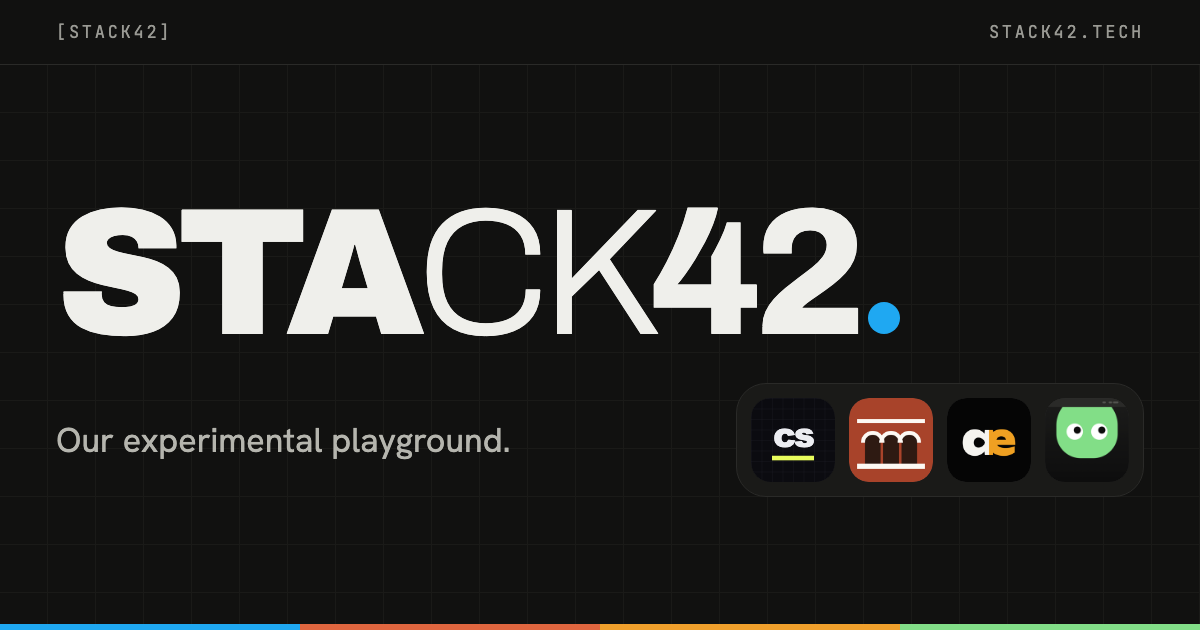
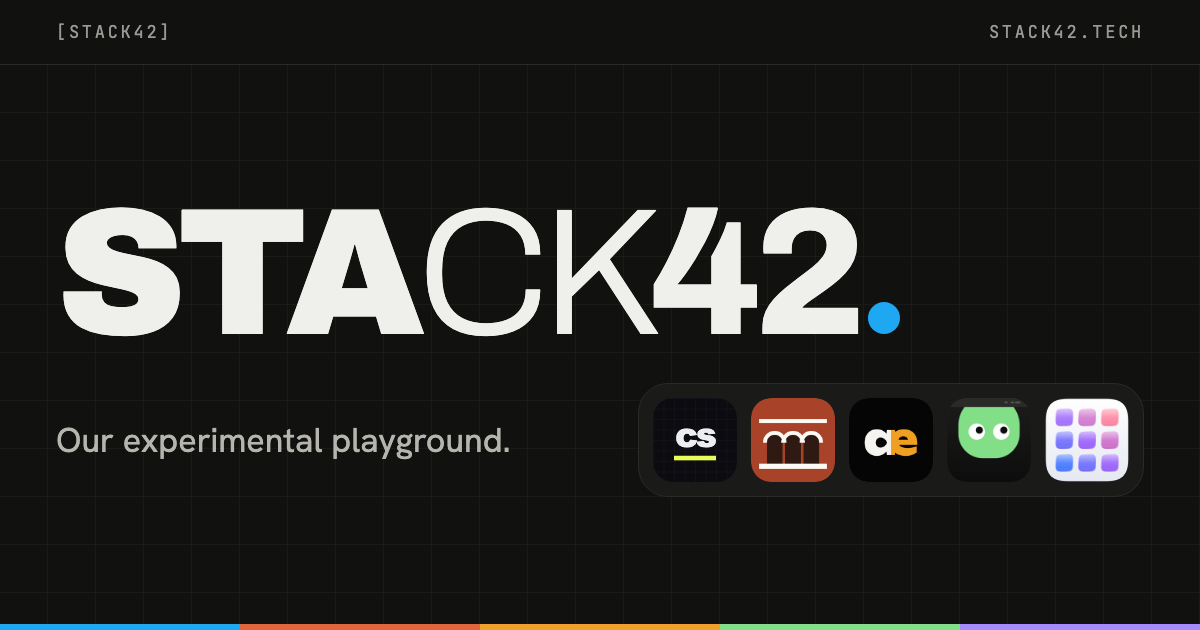
Add relaunch to the lineup
Adds relaunch (paged app grid launcher for macOS) with icon and
screenshot, moves the lineup to a 3-column grid with a 'next up' filler
card, and refreshes the OG image to include its icon.

diff --git a/src/routes/index.tsx b/src/routes/index.tsx
@@ -101,7 +101,28 @@ const products: Product[] = [
     iconScale: 1.25,
     screenshot: "/apps/peeko/screenshot.jpg",
   },
+  {
+    name: "relaunch",
+    head: "re",
+    tail: "launch",
+    category: "MAC LAUNCHER",
+    accent: "#6a3cf0",
+    accentDark: "#a68bff",
+    tags: ["MACOS", "OPEN SOURCE"],
+    description:
+      "The paged app grid, back on your Mac. A free, open-source launcher that restores your old Launchpad layout, folders and all.",
+    link: "https://relaunch.stack42.tech/",
+    link_label: "relaunch.stack42.tech",
+    icon: "/apps/relaunch/icon.png",
+    iconScale: 1.22,
+    screenshot: "/apps/relaunch/screenshot.jpg",
+  },
 ];
+
+// Lineup cells share borders, so each one draws only its bottom and (unless it ends a
+// row) right edge.
+const cellBorders =
+  "border-b border-hairline sm:max-lg:[&:nth-child(odd)]:border-r lg:[&:not(:nth-child(3n))]:border-r";
 
 const label = "font-mono text-xs uppercase tracking-[0.16em] text-graphite";
 
@@ -235,11 +256,11 @@ function Hero() {
 
 function Lineup() {
   return (
-    <section id="products" className="grid scroll-mt-16 sm:grid-cols-2 lg:grid-cols-4">
+    <section id="products" className="grid scroll-mt-16 sm:grid-cols-2 lg:grid-cols-3">
       {products.map((product, i) => (
         <article
           key={product.name}
-          className="accent-scope group relative flex animate-fade-up flex-col border-b border-hairline transition-colors duration-300 hover:bg-[var(--hover)] sm:border-r lg:border-b-0 lg:last:border-r-0"
+          className={`accent-scope group relative flex animate-fade-up flex-col transition-colors duration-300 hover:bg-[var(--hover)] ${cellBorders}`}
           style={
             {
               "--accent-light": product.accent,
@@ -312,7 +333,34 @@ function Lineup() {
           </div>
         </article>
       ))}
+      {products.length % 3 !== 0 && <NextUp delayMs={500 + products.length * 110} />}
     </section>
+  );
+}
+
+// Fills the empty grid slot: there's always another one on the way.
+function NextUp({ delayMs }: { delayMs: number }) {
+  return (
+    <div
+      className={`hidden animate-fade-up flex-col items-start justify-end gap-4 bg-[repeating-linear-gradient(135deg,transparent_0_14px,var(--hover)_14px_15px)] px-6 py-8 sm:flex ${cellBorders}`}
+      style={delay(delayMs)}
+    >
+      <span className="font-mono text-xs text-graphite">
+        {String(products.length + 1).padStart(2, "0")} / NEXT
+      </span>
+      <p className="font-display text-[34px] font-extrabold leading-none tracking-[-0.03em] text-graphite">
+        cooking
+        <span className="animate-pulse text-signal">_</span>
+      </p>
+      <a
+        href="https://github.com/stack-42"
+        target="_blank"
+        rel="noopener noreferrer"
+        className="font-mono text-xs tracking-[0.14em] text-ink transition-colors hover:text-signal"
+      >
+        WATCH ON GITHUB ↗
+      </a>
+    </div>
   );
 }
 
@@ -360,7 +408,7 @@ function WhatWeDo() {
   return (
     <section
       id="what-we-do"
-      className="grid gap-6 border-t border-hairline px-4 py-16 sm:px-8 md:grid-cols-[240px_1fr] md:gap-10"
+      className="grid gap-6 px-4 py-16 sm:px-8 md:grid-cols-[240px_1fr] md:gap-10"
     >
       <h2 className={label}>[03] WHO WE ARE</h2>
       <div className="max-w-[720px] space-y-4 [text-wrap:pretty]">

diff --git a/README.md b/README.md
@@ -14,6 +14,8 @@ stack42 is our experimental playground. We're a band of undergrad freshers and o
   [aeset.stack42.tech](http://aeset.stack42.tech/)
 - **peeko** — The to-do list that checks itself. A local-first macOS menu bar app that ticks off your daily habits (reading, focus, code, sleep, writing) when it sees the evidence  
   [peeko.stack42.tech](https://peeko.stack42.tech/)
+- **relaunch** — The paged app grid, back on your Mac. A free, open-source launcher that restores your old Launchpad layout, folders and all  
+  [relaunch.stack42.tech](https://relaunch.stack42.tech/)
 
 ## Development
 
